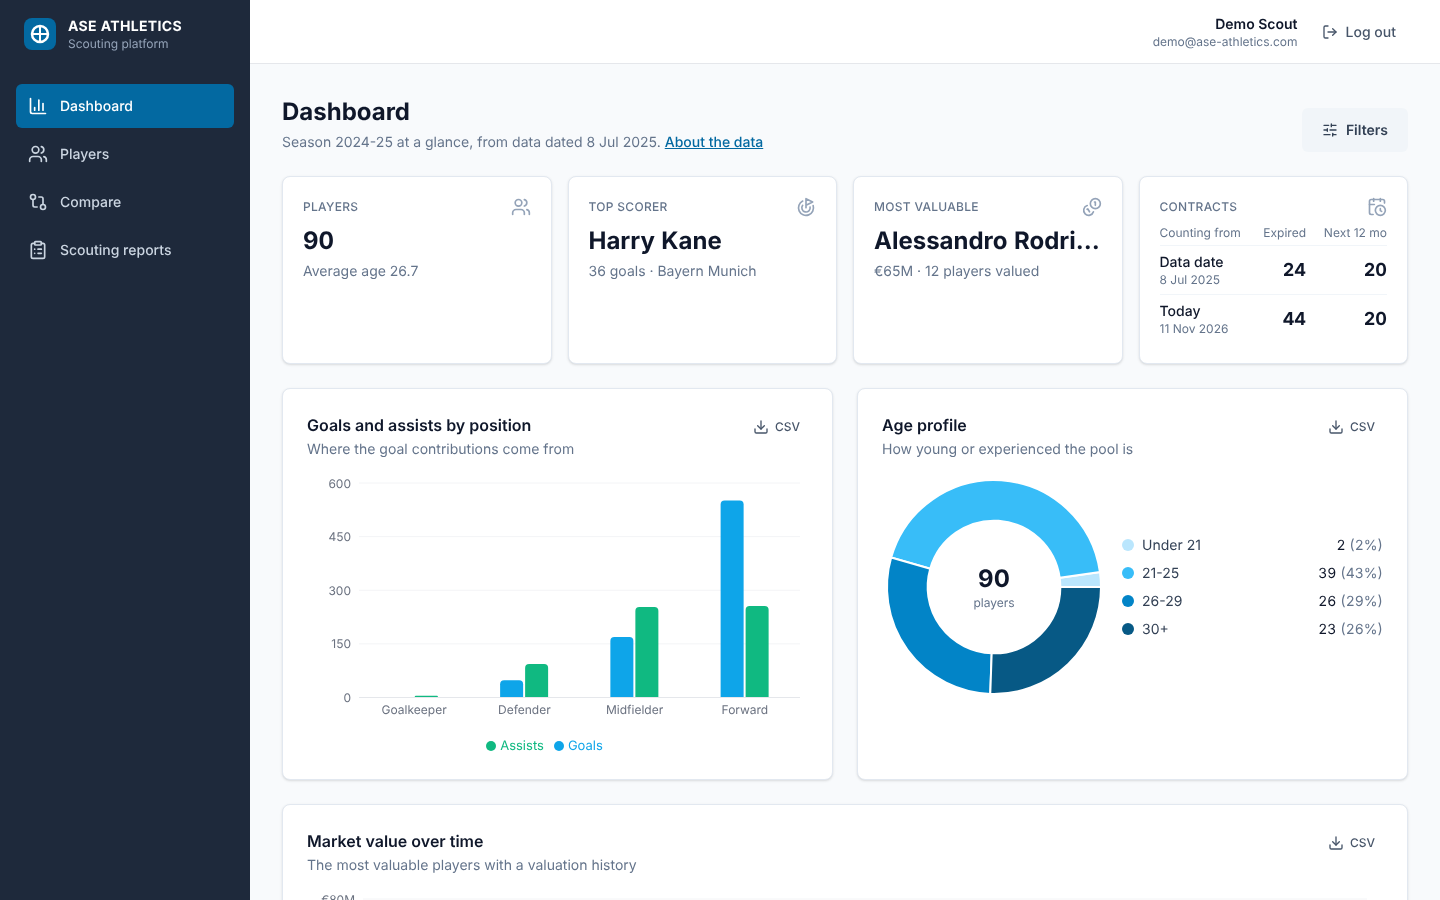
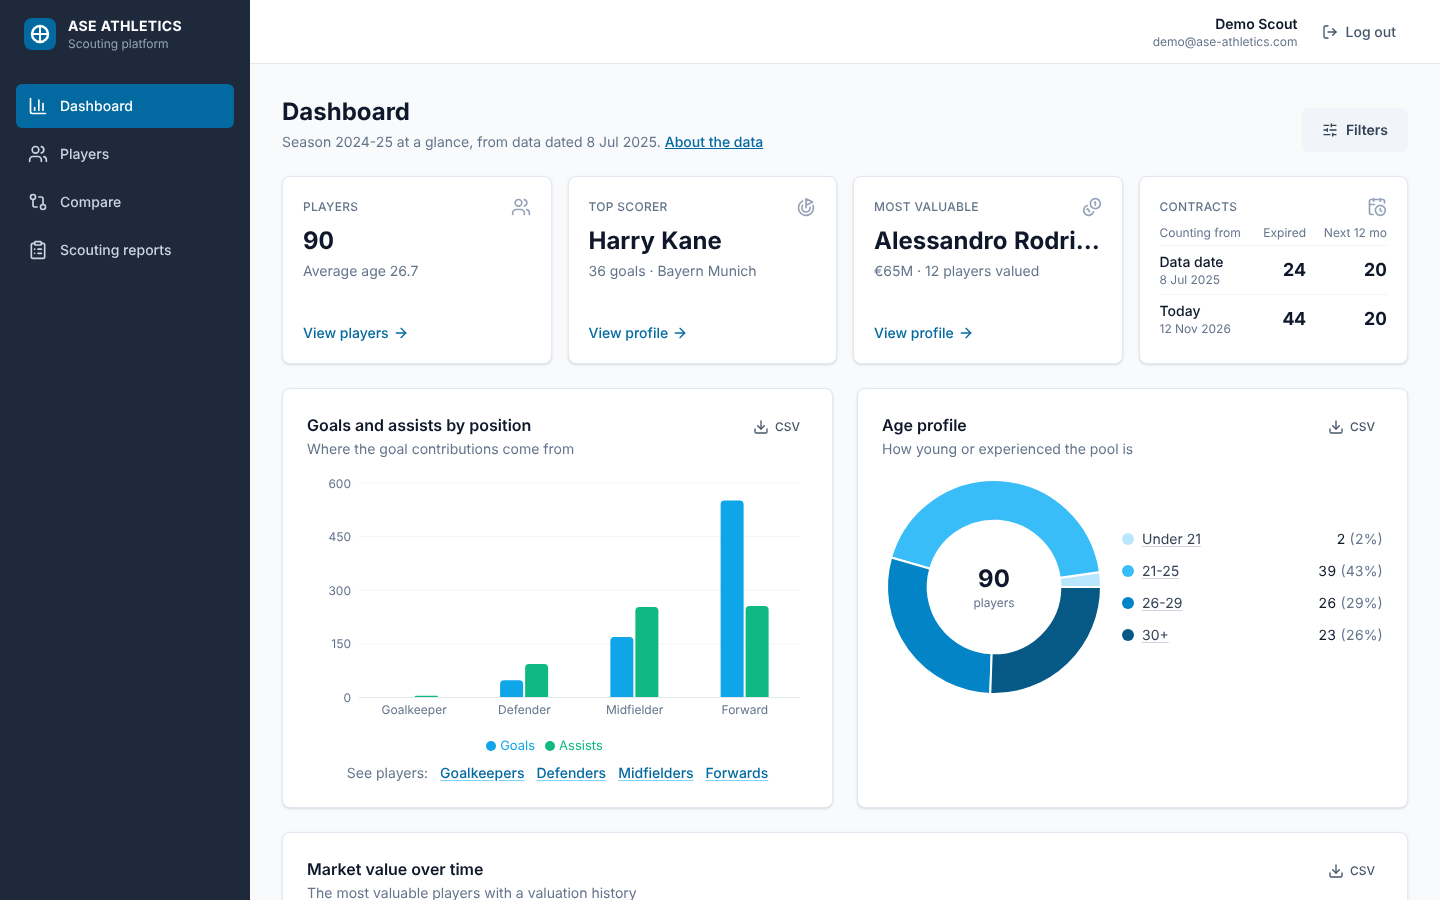
Update dashboard screenshot and challenges log

diff --git a/docs/challenges.md b/docs/challenges.md
@@ -8,6 +8,9 @@ A note on context: I built this with Claude Code as a coding assistant. Some ent
 
 | Area | Challenge |
 |---|---|
+| Workflow | [Commits that were too big to follow](#commits-that-were-too-big-to-follow) |
+| Frontend | [Chart clicks didn't say which bar was clicked](#chart-clicks-didnt-say-which-bar-was-clicked) |
+| Repository | [Stray files committed: duplicate workflows and unused Neon setup files](#stray-files-committed-duplicate-workflows-and-unused-neon-setup-files) |
 | Deployment | [Live site: login blocked by CORS](#live-site-login-blocked-by-cors) |
 | Frontend | [Chart legends and tooltips in the wrong order](#chart-legends-and-tooltips-in-the-wrong-order) |
 | Frontend | [Mobile check: invisible text widening the page, and cut-off player rows](#mobile-check-invisible-text-widening-the-page-and-cut-off-player-rows) |
@@ -19,6 +22,70 @@ A note on context: I built this with Claude Code as a coding assistant. Some ent
 | Local setup | ["Cannot reach the server" after restarting](#cannot-reach-the-server-after-restarting) |
 | Frontend, API | [Dashboard went white after the contracts update](#dashboard-went-white-after-the-contracts-update) |
 | Various | [Earlier challenges in the build](#earlier-challenges-in-the-build) |
+
+## Commits that were too big to follow
+
+Not a bug, but a working habit I changed partway through.
+
+**Symptom.** Looking back at the history, the early commits are each a whole feature: "Add frontend: auth, layout, player list, profile and form" is 38 files and about 2,600 lines, and "Add full REST API" is 27 files. One later commit bundled documentation, Prettier, linting and a new workflow into 85 files. A reviewer can't easily see what changed and why, and if one part had broken something, it couldn't have been undone on its own.
+
+**Cause.** At the start I was building fast and committing at milestones ("the frontend works now") rather than after each change. When several unrelated tasks were finished together, they went into one commit.
+
+**Fix.**
+
+1. Switched to one commit per change: the dashboard links, then moving them into a tested helper, then making the club names keyboard links, each with its own commit and a message saying what it does.
+2. When several steps touch the same file, did them one at a time: make the change, commit, push, then the next.
+3. Left the earlier history as it is rather than rewriting it with a force push: it's an honest record of how the project was built.
+
+**Lesson.**
+
+- One commit = one change you could describe in a sentence. If the message needs "and" twice, it's probably two commits.
+- Small commits are easier to review, easier to undo, and make `git log` read like a diary of the project.
+- Commit when something works, not when everything works.
+
+## Chart clicks didn't say which bar was clicked
+
+Making the dashboard clickable (top scorer to his profile, each position, club or age group to those players) worked for the cards and links straight away, but not for the bars.
+
+**Symptom.** Clicking a bar in "Goals and assists by position" did nothing. Logging what the chart passed to the click handler showed `activeIndex: null` and no `activeLabel`: Recharts knew where the click happened, but not which position it was on.
+
+**Cause.** The click was attached to the whole chart, which relies on the tooltip's "active" state to know which category is under the mouse. In Recharts 3 that state wasn't set at the moment of the click, so the handler had nothing to go on.
+
+**Fix.**
+
+1. Moved the click onto the bars themselves: each bar's own data includes its position or club.
+2. Gave each bar an invisible full-height background, so short bars (goalkeepers) are still easy to hit.
+3. Limited the hand cursor to the parts that can be clicked, so it never shows over gaps where clicking does nothing.
+4. Added real links for keyboard and screen reader users, because chart shapes can't be focused: a row of position links under the chart, age legend rows as links, and club names drawn as links inside the chart.
+5. Moved the link-building into `utils/dashboardLinks.js` and tested it (each link keeps the dashboard's filters and adds one).
+
+**Lesson.**
+
+- When a handler does nothing, log what it receives before guessing. One line showed the data simply wasn't there.
+- Attach clicks to the thing that owns the data (the bar), not to its container.
+- Anything you can do with the mouse on a chart should also exist as a normal link.
+
+## Stray files committed: duplicate workflows and unused Neon setup files
+
+While checking the repo before making it public, some files turned up that the app never uses.
+
+**Symptom.** A folder with second copies of `ci.yml` and `keep-awake.yml` sat next to `.github/workflows`. At the top level there were also `neon.ts`, `package.json` and `package-lock.json`, which nothing in the app refers to.
+
+**Cause.**
+
+- The workflow files had been downloaded into the project folder, and `git add .` committed everything new, including that folder.
+- The top-level Neon files were created early on by Neon's setup tool. Render only builds `backend`, Vercel only builds `frontend`, and CI runs inside those two folders, so these files did nothing.
+
+**Fix.**
+
+1. Checked the copies were identical to the real workflows, and that GitHub only runs files from `.github/workflows`.
+2. Checked that the secret files next to them (`.env.local`, `.neon`) had never been committed and are covered by `.gitignore`.
+3. Removed the stray files with `git rm`, and added a local-only ignore rule (`.git/info/exclude`) so downloads can't be committed by accident.
+
+**Lesson.**
+
+- Run `git status` before `git add .` and read the list: anything you don't recognise shouldn't go in.
+- Look at the repo the way a reviewer will before making it public: every file should have a reason to be there.
 
 ## Live site: login blocked by CORS
 
